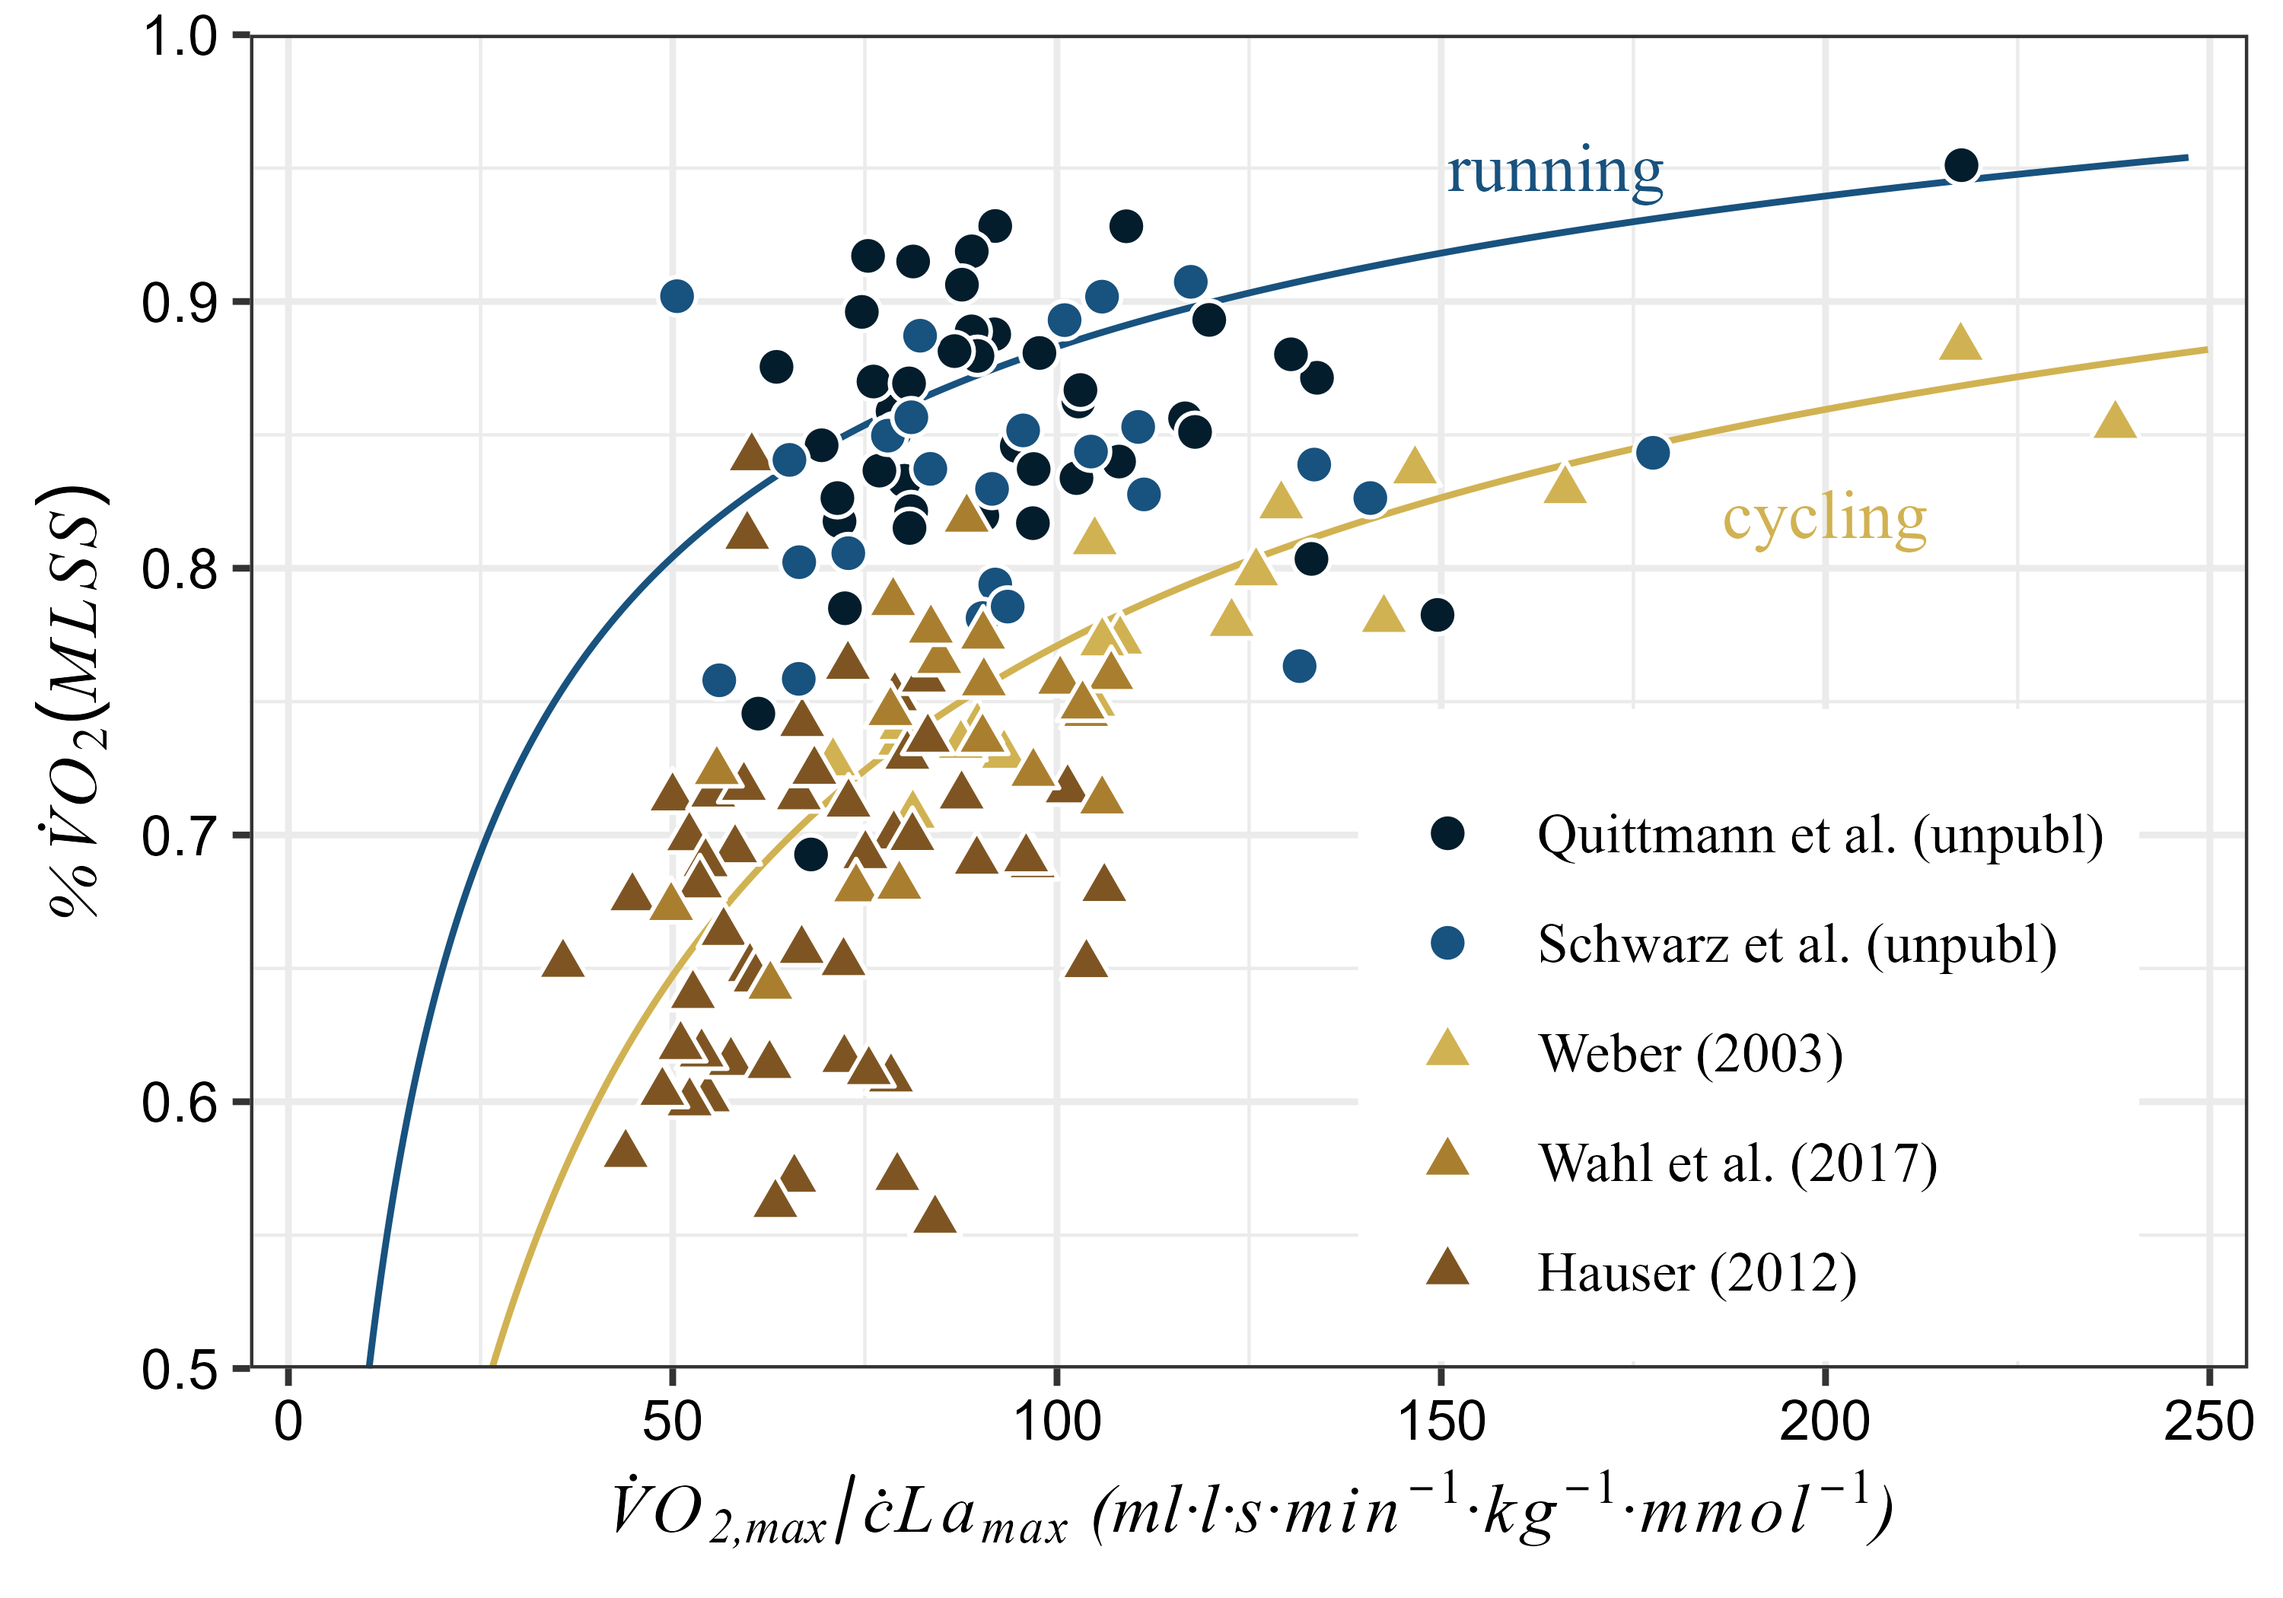
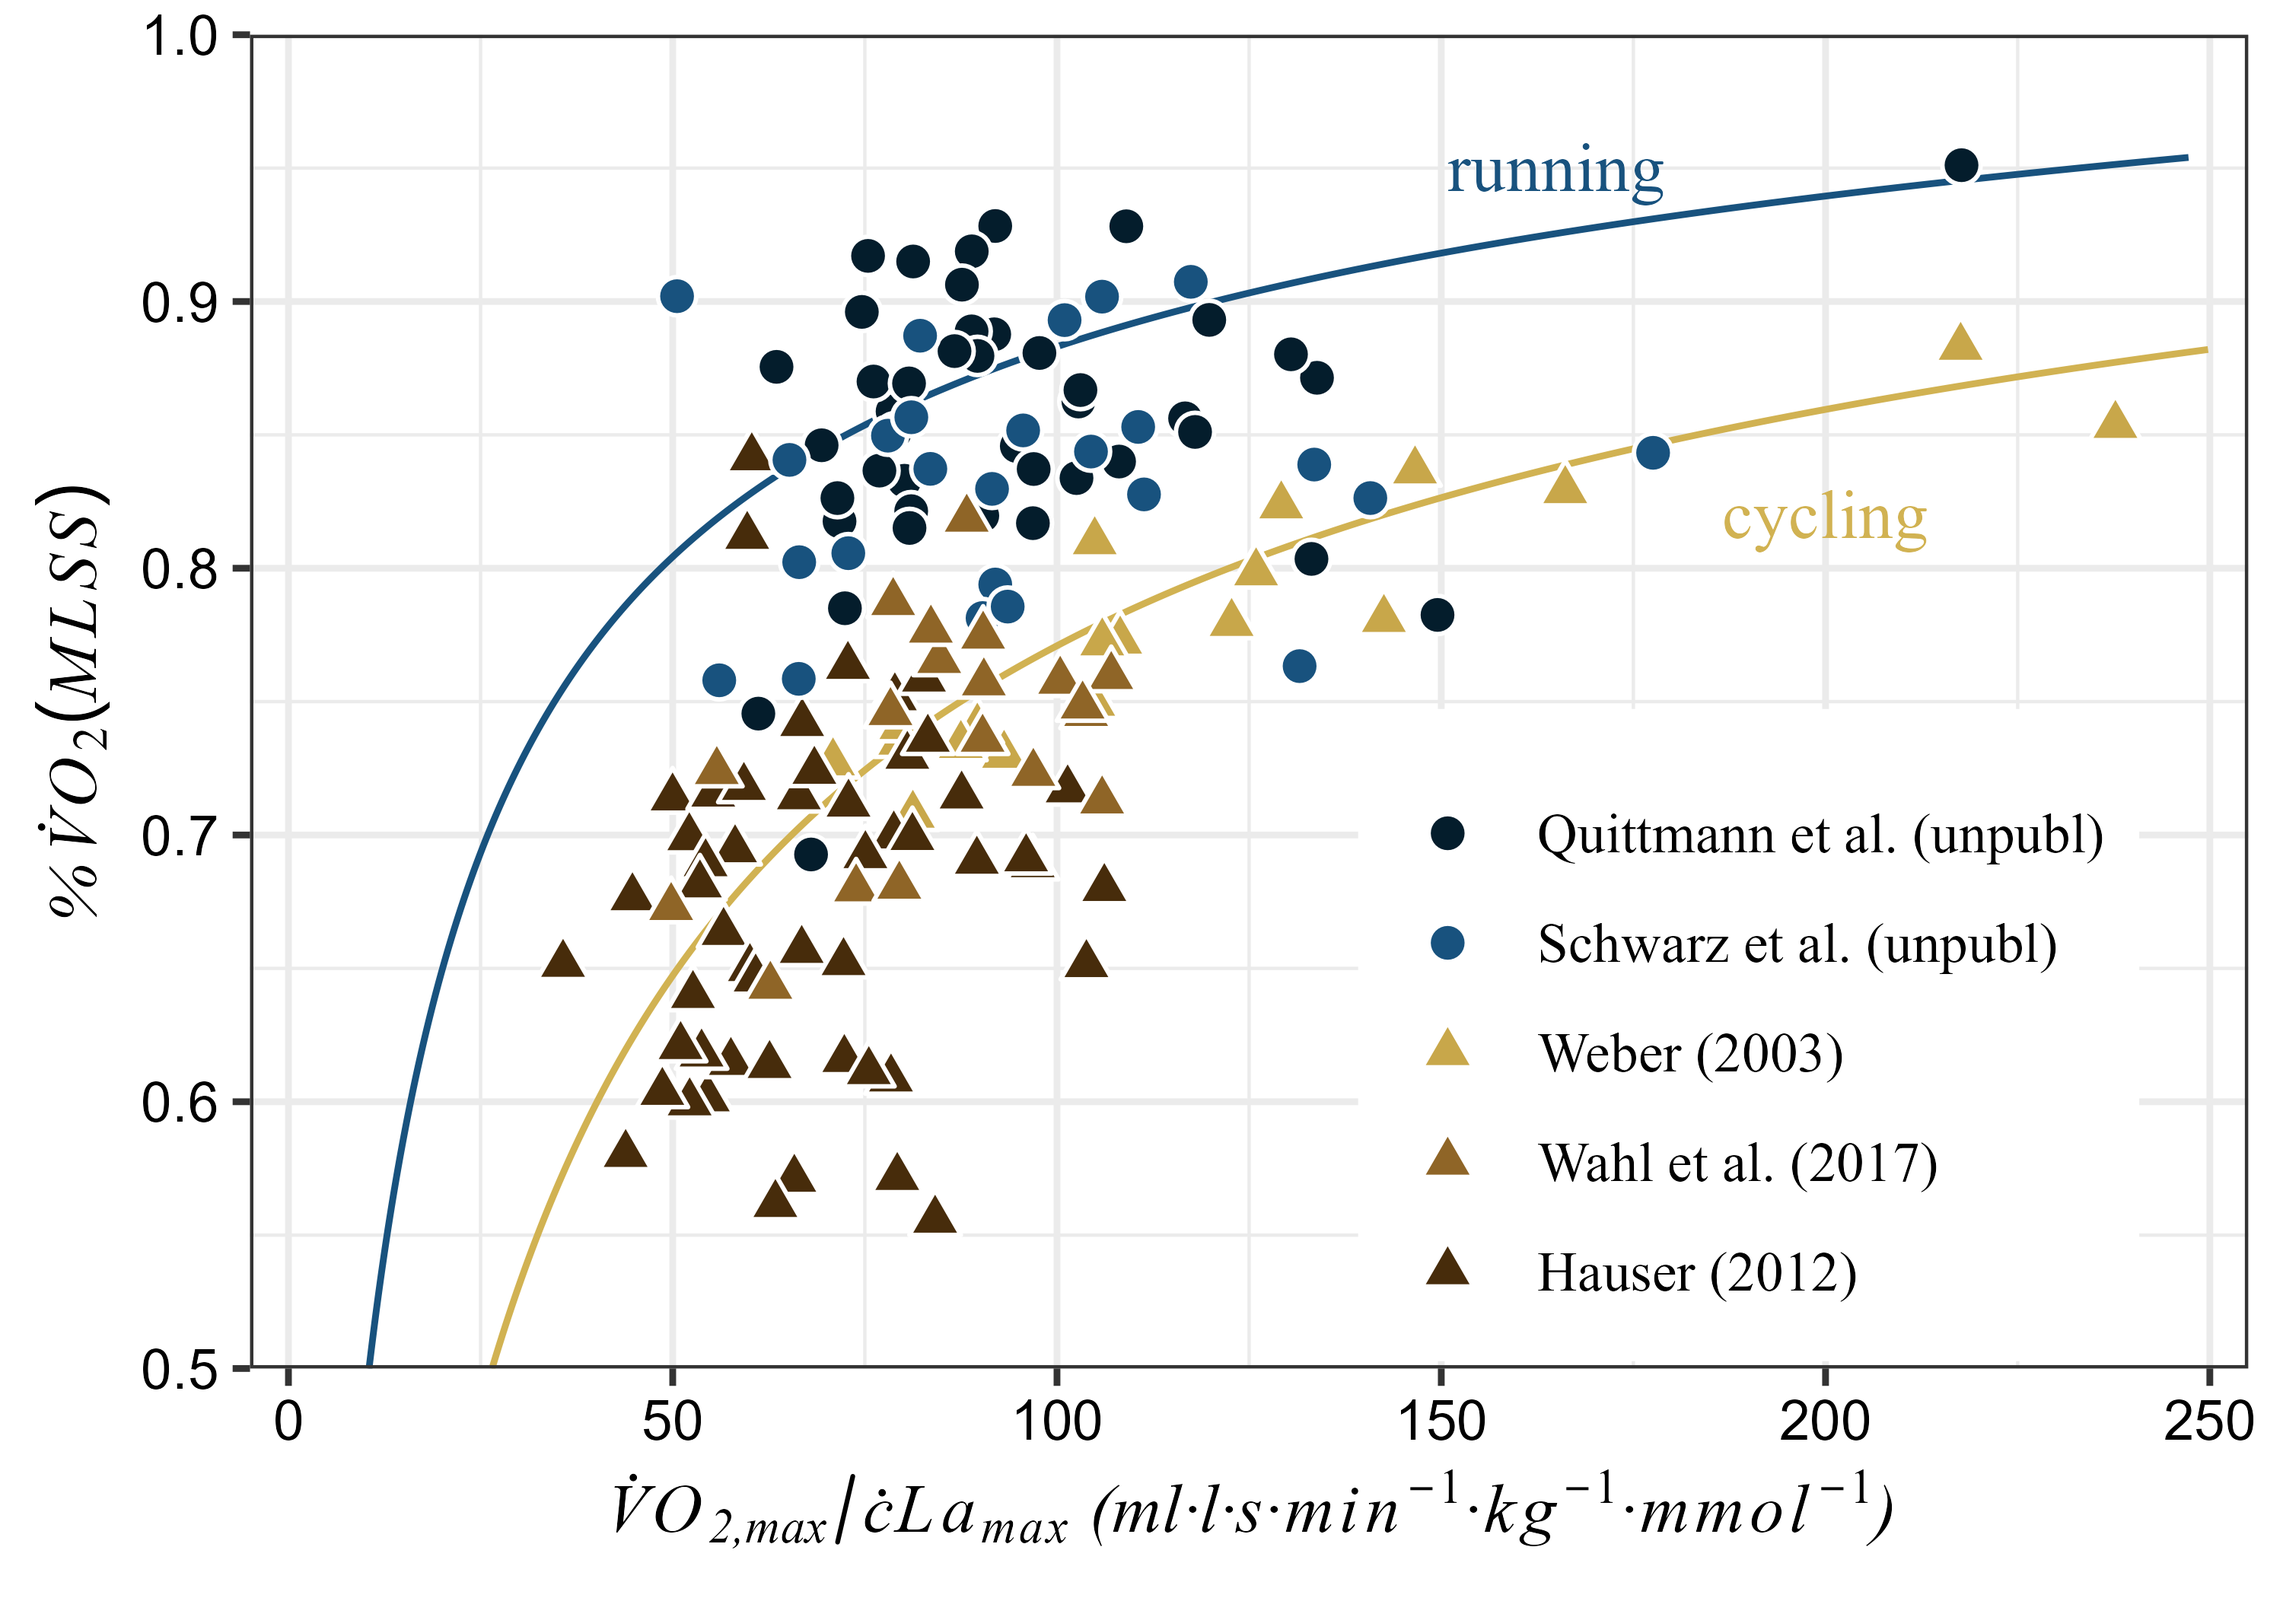
Final adjustments

diff --git a/list_of_changes.md b/list_of_changes.md
@@ -3,8 +3,8 @@
 The second version of the preprint manuscript contains the following changes:
 
 * New data for cycling by Wahl et al. (2017)
-* Recalculated %VO2(MLSS) data by Weber. In a personal communication, the author stated that the %VO2(MLSS) data given (which we used in the first version of our preprint) were not measured but calculated using an equation similar to our Eq. 7. Since we could not reproduce this calculation, we recalculated the data according to Eq. 7 of the preprint.
-* Additional data by Hauser (2012). As we noticed in the first version of the preprint, the data in Hauser et al. (2014) are a subset of the dissertation data by Hauser (2012). After posting the preprint, we gained access to the full data set of the dissertation. After we noted inconsistencies between the provided data and the data presented in the dissertation, the author acknowledged data management errors during the preparation of the thesis and provided us with a corrected data set based on the original raw data, which we now use for our analysis. Along with the corrected data set, the author identified four individuals for which he could not reproduce the data (P29, P35, P53, P54 of his work). We excluded these cases from our analysis.
-* In the light of the new data, we can make more confident statements regarding the validity of the model for cycling data. 
-* We now express our concerns regarding the derivation of the value n_la = 3 in the literature
+* Recalculated %VO2(MLSS) data by Weber. In a personal communication, the author stated that the %VO2(MLSS) data given (which we used in the first version of our preprint) were not measured but calculated using an equation similar to our Eq. 7. Since we could not reproduce the calculated %VO2(MLSS data) provided by Weber (2003), we recalculated the data according to Eq. 7 of the preprint.
+* Additional data by Hauser (2012). As we mentioned in the first version of the preprint, the data in Hauser et al. (2014) are a subset of the data shown in Hausers Ph.D. thesis (2012). After we posted the preprint, Hauser provided us access to the full data set of his thesis. After we noted inconsistencies between the provided data and the data presented in the dissertation, the author acknowledged data management errors during the preparation of the thesis and provided us with a corrected data set based on the original raw data, which we now use for our analysis. Along with the corrected data set, the author identified four individuals for which he could not reproduce the data (P29, P35, P53, P54 of his work). We excluded these cases from our analysis.
+* In the light of the new data, we can make stronger statements regarding the validity of the model for cycling data. 
 * Included link to a document containing a detailed derivation of Eq. 6
+* Minor rewording in the abstract
